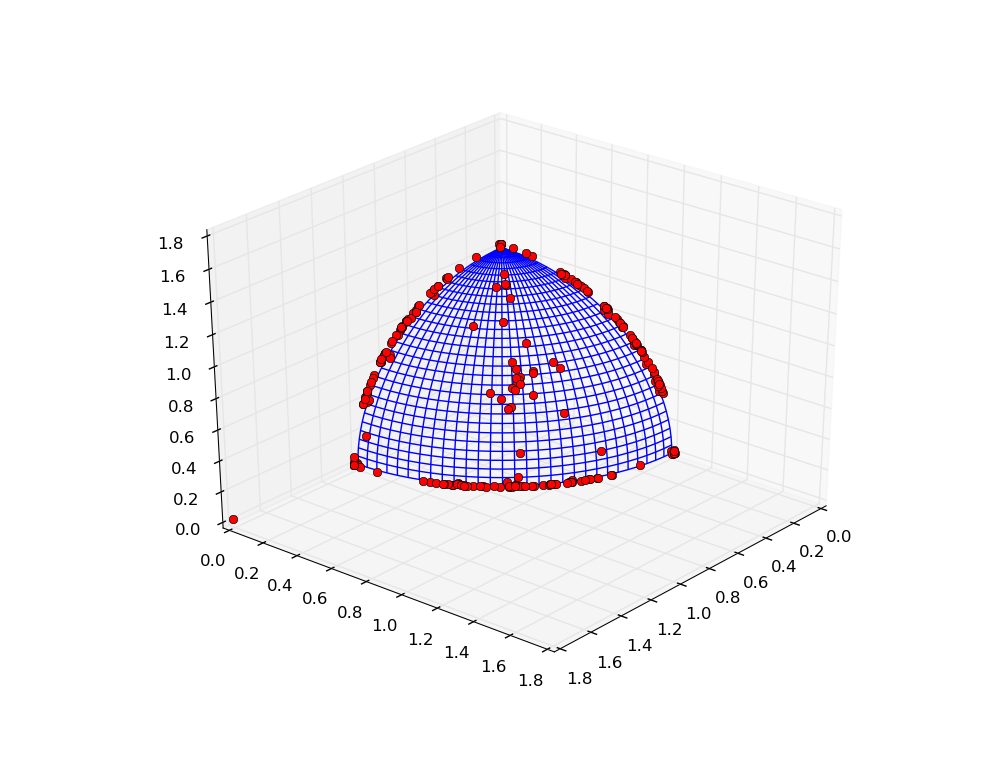
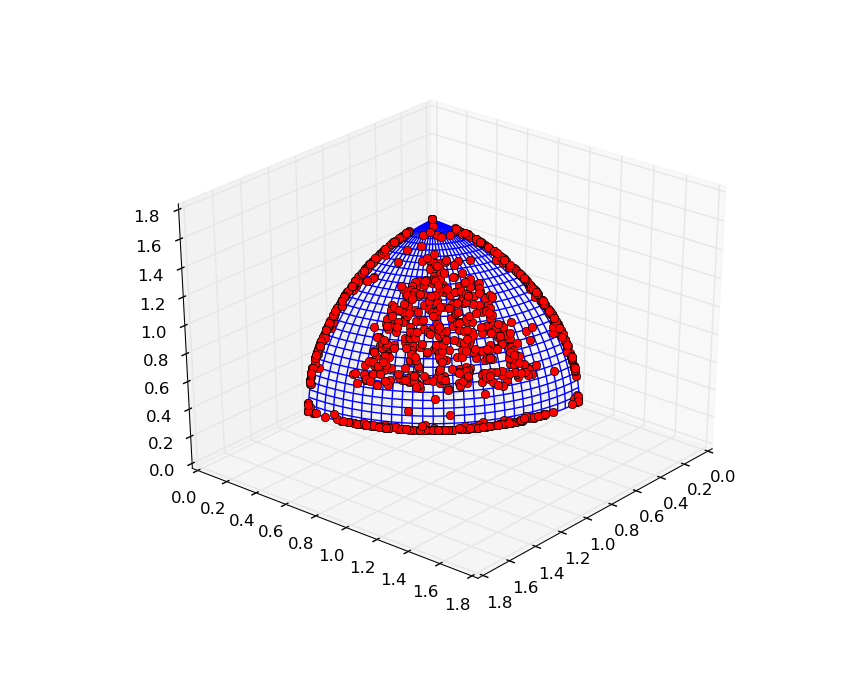
Improved the HV tutorials and plots

diff --git a/doc/sphinx/tutorials/migration_based_on_hypervolumes.rst b/doc/sphinx/tutorials/migration_based_on_hypervolumes.rst
@@ -12,58 +12,78 @@ There are in total 4 migration policies which are based on the hypervolume featu
 #. `PyGMO.migration.hv_best_s_policy`
 #. `PyGMO.migration.hv_fair_r_policy`
 
-In general, migration policy is a intermediate step in the archipelago evolution, which assigns a certain ordering to individuals on given island in order to establish the best/worst subset of the population.
-Information about the subsets is later used for the selection of the "best" individuals, as well as for the replacement of the inferior subset with a subset from another island.
-Migration based on hypervolume use the exclusive contribution feature to establish the ordering of individuals.
+For more information on migration policies, please visit the corresponding documentation page :ref:`migration`.
 
-Code below establishes an archipelago with SMS-EMOA algorithm, and the hv_best_s/hv_fair_r migration policies.
-The topology of the archipelago is either `PyGMO.topology.fully_connected` - direct migration is possible between any two islands, or `PyGMO.topology.unconnected`, which leaves the migration virtually non-existing.
+Code below establishes an archipelago with SMS-EMOA algorithm, using the `PyGMO.migration.hv_best_s_policy` and `PyGMO.migration.hv_fair_r_policy`.
+As a comparison, random migration policies `PyGMO.migration.random_s_policy` and `PyGMO.migration.random_r_policy` are also employed for the task.
 
 .. code-block:: python
 
-  # Set up problem as DTLZ-3 with 3 objectives, evolved using SMS-EMOA
-  prob = problem.dtlz3(fdim=3)
-  alg = algorithm.sms_emoa(gen = 100)
-  
-  # Construct the hv_best/fair migration policies
-  s_pol = migration.hv_best_s_policy(0.25, migration.rate_type.fractional)
-  r_pol = migration.hv_fair_r_policy(0.25, migration.rate_type.fractional)
-  
-  # Set up the archipelago
-  n_islands = 16
-  n_individuals = 16
+  from PyGMO import *
 
-  # Swap the comment between lines below to use the unconnected topology
-  #top = topology.unconnected()
-  top = topology.fully_connected()
+  def run_evolution(islands, prob):
+    """
+    Creates archipelago and proceeds with the evolution
+    """
 
-  arch = archipelago(topology=top)
-  isls = [island(alg, prob, n_individuals, s_policy=s_pol, r_policy=r_pol) for i in xrange(n_islands)]
-  for isl in isls:
-  	arch.push_back(isl)
+    # Create the archipelago, and push the islands
+  	arch = archipelago(topology=topology.fully_connected())
+  	for isl in islands:
+  		arch.push_back(isl)
   
-  # Evolve
-  n_steps = 50
-  for s in xrange(n_steps):
-  	arch.evolve(1)
+  	# Evolve for 130 steps
+  	n_steps = 130
+  	for s in xrange(n_steps):
+  		print "Evolving archipelago, step %d/%d" % (s, n_steps)
+  		arch.evolve(1)
   
-  # Merge all populations across the islands together
-  pop = population(prob)
-  for isl in arch:
-  	for ind in isl.population:
-  		pop.push_back(ind.cur_x)
+  	# Merge all populations across the islands together
+  	pop = population(prob)
+  	for isl in arch:
+  		for ind in isl.population:
+  			pop.push_back(ind.cur_x)
   
-  print prob.p_distance(pop)
-  prob.plot(pop)
+  	print "Final P-Distance: ", prob.p_distance(pop)
+  	prob.plot(pop)
+  
+  def main():
+  	# Set up problem as DTLZ-3 with 3 objectives and the algorithm as SMS-EMOA
+  	prob = problem.dtlz3(fdim=3)
+  	alg = algorithm.sms_emoa(gen = 100)
+  
+  	# Construct the hv_best/fair migration policies
+  	s_pol = migration.hv_best_s_policy(0.25, migration.rate_type.fractional)
+  	r_pol = migration.hv_fair_r_policy(0.25, migration.rate_type.fractional)
+  
+  	# Construct the random policies
+  	r_s_pol = migration.random_s_policy(0.25, migration.rate_type.fractional)
+  	r_r_pol = migration.random_r_policy(0.25, migration.rate_type.fractional)
+  
+  	# Set up the archipelago
+  	n_islands = 16
+  	n_individuals = 64
+  
+  	# Create and evolve the archipelago using the hypervolume-based migration policies
+  	isls_hv = [island(alg, prob, n_individuals, s_policy=s_pol, r_policy=r_pol) for i in xrange(n_islands)]
+  	run_evolution(isls_hv, prob)
+  
+  	# Create and evolve the archipelago using the random migration policies
+  	isls_rnd = [island(alg, prob, n_individuals, s_policy=r_s_pol, r_policy=r_r_pol) for i in xrange(n_islands)]
+  	run_evolution(isls_rnd, prob)
 
-After 50 evolutionary steps, the first scenario produces a population which have converged to a proper solution, not far from the pareto front.
-The plot below is a result of the evolution with a fully connected topology:
+  if __name__ == "__main__":
+    main()
+
+**Note**: You can save the code above, and execute it by issuing the following in the command line: **python tutorial.py** (assuming the first argument is the name of the file).
+
+After 130 evolutionary steps, the first scenario produces a population which has converged to a solution not far from the true pareto front.
+The plot below is a result of the evolution of an archipelago using the hypervolume-based migration policies:
 
 .. image:: ../images/tutorials/hv_best_fair_migration_policy.png
   :width: 750px
 
-In case of unconnected topology, the individuals are still far from the optimal front, which suggests that the migration policy might have helped in the establishing of the good solution.
-Plot below is a result of the evolution with no connections between the islands.
+In case of the random migration policies, the individuals are still far from the optimal front, which suggests that the hypervolume-based migration policies might have helped in the establishing of the good solution.
+Plot below is a result of the evolution of an archipelago using the random migration policies:
 
-.. image:: ../images/tutorials/hv_best_fair_unconnected.png
+.. image:: ../images/tutorials/random_migration_policy.png
   :width: 750px

diff --git a/doc/sphinx/tutorials/using_hypervolumes_in_your_algorithm.rst b/doc/sphinx/tutorials/using_hypervolumes_in_your_algorithm.rst
@@ -11,42 +11,59 @@ As it is often the case in the tutorials, we will present a fairly simple MOO al
 
 .. code-block:: python
 
+  from PyGMO import *
+  import random
+
   class my_hv_moo_alg(algorithm.base):
   	"""
   	A custom steady-state algorithm, based on the hypervolume computation.
   	"""
   
-  	def __init__(self, gen = 10):
+  	def __init__(self, gen = 10, p_m = 0.02):
   	   """
-  	   Constructs a Monte-Carlo (random sampling) algorithm
+  	   Constructs an instance of the algorithm.
   
-  	   USAGE: my_hv_moo_alg(gen = 10)
+  	   USAGE: my_hv_moo_alg(gen=10, p_m=0.02)
   
-  	   NOTE: 1. Generates a new individual. 2.Selects the least contributor of the population, and removes it.
+  	   NOTE: Evolves the population using the least contributor feature.
   
   	   * gen: number of generations
+  	   * p_m: probability of mutation
   	   """
   	   #We start calling the base constructor
   	   super(my_hv_moo_alg,self).__init__()
   	   # Store the number of generations
   	   self.__gen = gen
+  	   self.__p_m = p_m
   
   	# Performs a very simple crossover step
   	def cross(self, ind1, ind2):
-  		import random
   		x1 = ind1.cur_x
   		x2 = ind2.cur_x
   		return tuple(random.choice((x1[i], x2[i],)) for i in xrange(len(x1)))
   
+	# Gaussian mutation
+	def mutate(self, x, lb, ub):
+
+		# Implementation of the Gaussian operator
+		def _g_op(i):
+			return min(max(random.gauss(x[i], (ub[i]-lb[i]) * 0.1), lb[i]), ub[i])
+
+		# Condition for the mutation to happen
+		def _rnd_mut():
+			return random.random() < self.__p_m
+
+		return tuple(_g_op(i) if _rnd_mut() else x[i] for i in xrange(len(x)))
   
   	# Evolve method
-  	def evolve(self,pop):
+  	def evolve(self, pop):
   		#If the population is empty (i.e. no individuals) nothing happens
   		if len(pop) == 0:
   		 	 return pop
   
-  		import random
   		#The algorithm now starts manipulating the population
+  		prob = pop.problem
+  		lb, ub = prob.lb, prob.ub
   		for s in range(self.__gen):
   			# Initiate new individual by a crossover of two random individuals
   			idx1 = random.randint(0, len(pop) - 1)
@@ -54,7 +71,8 @@ As it is often the case in the tutorials, we will present a fairly simple MOO al
   			ind1 = pop[idx1]
   			ind2 = pop[idx2]
   
-  			new_x = self.cross(ind1, ind2)
+  			new_x = self.mutate(self.cross(ind1, ind2), lb, ub)
+  			#new_x = self.cross(ind1, ind2)
   			pop.push_back(new_x)
   
   			# Remove the least contributor
@@ -68,17 +86,26 @@ As it is often the case in the tutorials, we will present a fairly simple MOO al
   	def get_name(self):
   		   return "Custom HV-based MOO"
 
-  prob = problem.dtlz3(fdim=3)
-  alg = my_hv_moo_alg(gen = 100)
-  pop = population(prob, 100)
-  for _ in xrange(100):
-    pop = alg.evolve(pop)
-    print prob.p_distance(pop)
+  def main():
+  	prob = problem.dtlz3(fdim=3)
+  	alg = my_hv_moo_alg(gen = 100, p_m=0.02)
+  	pop = population(prob, 100)
+  	# Establish a constant reference point, so the increase is noticed
+  	ref_point = (3000,) * 3
+  	for _ in xrange(50):
+  		pop = alg.evolve(pop)
+  		print "P-Distance: %.5f, Hypervolume: %.5f" % (prob.p_distance(pop), hypervolume(pop).compute(ref_point))
+
+  if __name__ == "__main__":
+    main()
+
+You can copy the whole code above and save it as a python script (e.g. **my_alg.py**), this way you can execute it yourself by issuing the following in the command line: **python my_alg.py**.
 
 The algorithm does the following in the *evolve* method:
 
 #. Establish a new individual by performing a very simple crossover on two random individuals
-#. Push it to the population
+#. Apply the Gaussian mutation operator
+#. Push the newly obtained vector to the population
 #. Establish the least contributor using the `PyGMO.hypervolume` module
 #. Remove the least contributor from the population
 
@@ -94,4 +121,5 @@ Script above should produce an output similar to the one below:
   P-Distance: 80.06343, Hypervolume: 26998134491.62578
   P-Distance: 79.00453, Hypervolume: 26998134491.62579
 
-The end effect is not spectacular as the algorithm itself is terribly simple, yet we can observe an improvement over the consecutive generations both in the P-Distance and the hypervolume.
+The end effect is far from spectacular as the algorithm itself is quite limited.
+However, we can observe an improvement over the consecutive generations both in the P-Distance and the hypervolume.

diff --git a/doc/sphinx/tutorials/approximating_the_hypervolume.rst b/doc/sphinx/tutorials/approximating_the_hypervolume.rst
@@ -14,7 +14,7 @@ Two algorithms found in `PyGMO.hv_algorithm` are capable of computing the hyperv
 #. `PyGMO.hv_algorithm.bf_approx` - capable of approximating the least and the greatest contributor
 
 **Note**: `PyGMO.hypervolume` object will never delegate the computation to any of the approximated algorithms.
-The only way to use the approximated algorithms is though the explicit request (see the beginning of the tutorial :ref:`advanced_hypervolume_computation_and_analysis` for more information on how to do that).
+The only way to use the approximated algorithms is through the explicit request (see the beginning of the tutorial :ref:`advanced_hypervolume_computation_and_analysis` for more information on how to do that).
 
 FPRAS
 ================
@@ -37,9 +37,9 @@ Since many approximated algorithms based on the Monte Carlo approach allow for s
 #. *eps* - relative accuracy of the approximation
 #. *delta* - probability of error
 
-First parameter (**eps**) decides how accurate the approximation aims to be.
-The smaller the epsilon, the longer it will take for the algorithm to evaluate.
-Parameter **delta** models the uncertainty of the approximation, e.g. for given **eps0** and **delta0** we are **1 - delta0** certain that the obtained answer is relatively no further from the exact hypervolume by **eps0**.
+For given parameters **eps=eps0** and **delta=delta0**, the obtained solution is (with probability **1 - delta0**) within a factor of **1 +/- eps0** from the exact hypervolume.
+
+**Note**: Of course, the smaller the **eps** and **delta**, the longer it will take for the algorithm to evaluate.
 
 By the *relative* error, we mean the scenario in which the approximation is accurate within given order of magnitude, e.g. 312.32 and 313.41, are accurate within **eps = 0.1**, because they are accurate within two orders of magnitude. At the same time, these are NOT accurate within **eps = 0.01**.
 
@@ -61,23 +61,13 @@ Since FPRAS scales so well with the dimension size, let us present a more extrem
 .. image:: ../images/tutorials/hv_fpras_extreme.png
   :width: 850px
 
-Now, that is quite a feat! A front of 1000 points in 100 dimensions is an impossible case even for the state of the art algorithms that rely on the exact computation.
-
-Accuracy
------------------
-
-This experiment measures the accuracy of the `PyGMO.hv_algorithm.bf_fpras` algorithm.
-Plot below describe the relative accuracy of FPRAS and exact hypervolume methods.
-Z axis is the average accuracy, computed over ten DTLZ-2 fronts.
-
-.. image:: ../images/tutorials/hv_fpras_accuracy.png
-  :width: 850px
+Now, that is quite a feat! A front of 1000 points in 100 dimensions is beyond the reach of the algorithms that rely on the exact computation.
 
 Bringmann-Friedrich approximation for the least contributor
 ===========================================================
 
-Additionally to FPRAS, PyGMO has an approximated algorithm, dedicated for the computation of the least/greatest contributor.
-This is especially important when we want to utilize evolutionary algorithms which rely on that feature, on the problems with many objectives.
+Additionally to FPRAS, PyGMO provides an approximated algorithm, dedicated for the computation of the least/greatest contributor.
+This is useful when we want to utilize evolutionary algorithms which rely on that feature, especially when the problems has many objectives.
 
 .. code-block:: python
 

diff --git a/doc/sphinx/tutorials/advanced_hypervolume_computation_and_analysis.rst b/doc/sphinx/tutorials/advanced_hypervolume_computation_and_analysis.rst
@@ -167,3 +167,24 @@ In order to bypass the copying of points, a getter/setter is available:
 **Caution:**
 Bypassing the copying of points will most likely lead to the alteration of the internal representation of points.
 This has its benefits only when the hypervolume object is to be treated as a single use instance.
+
+Bonus
+------
+Additional small trick you can employ for your own experiments is pulling only the first front from the population object, which will in turn speed up the computation:
+
+.. code-block:: python
+
+  from PyGMO import *
+  prob = problem.dtlz7(fdim=6)
+  pop = population(prob, 100)
+
+  hv = hypervolume(pop)
+  ref_point = hv.get_nadir_point(1.0)
+  print hv.compute(r=ref_point)
+
+  # Code below may yield the same result faster
+  hv2 = hypervolume([pop[i].cur_f for i in pop.compute_pareto_fronts()[0]])
+  print hv2.compute(r=ref_point)
+
+**Note**: Be cautious about employing such optimizations when computing the exclusive hypervolume!
+In most cases, second front is relevant to the exclusive contributions of the points from the first front. Also, the indexing of the points will not reflect the indices of the individuals anymore (unless you store them first).

diff --git a/doc/sphinx/documentation/migration.rst b/doc/sphinx/documentation/migration.rst
@@ -1,3 +1,5 @@
+.. _migration:
+
 Migration 
 =========
 
